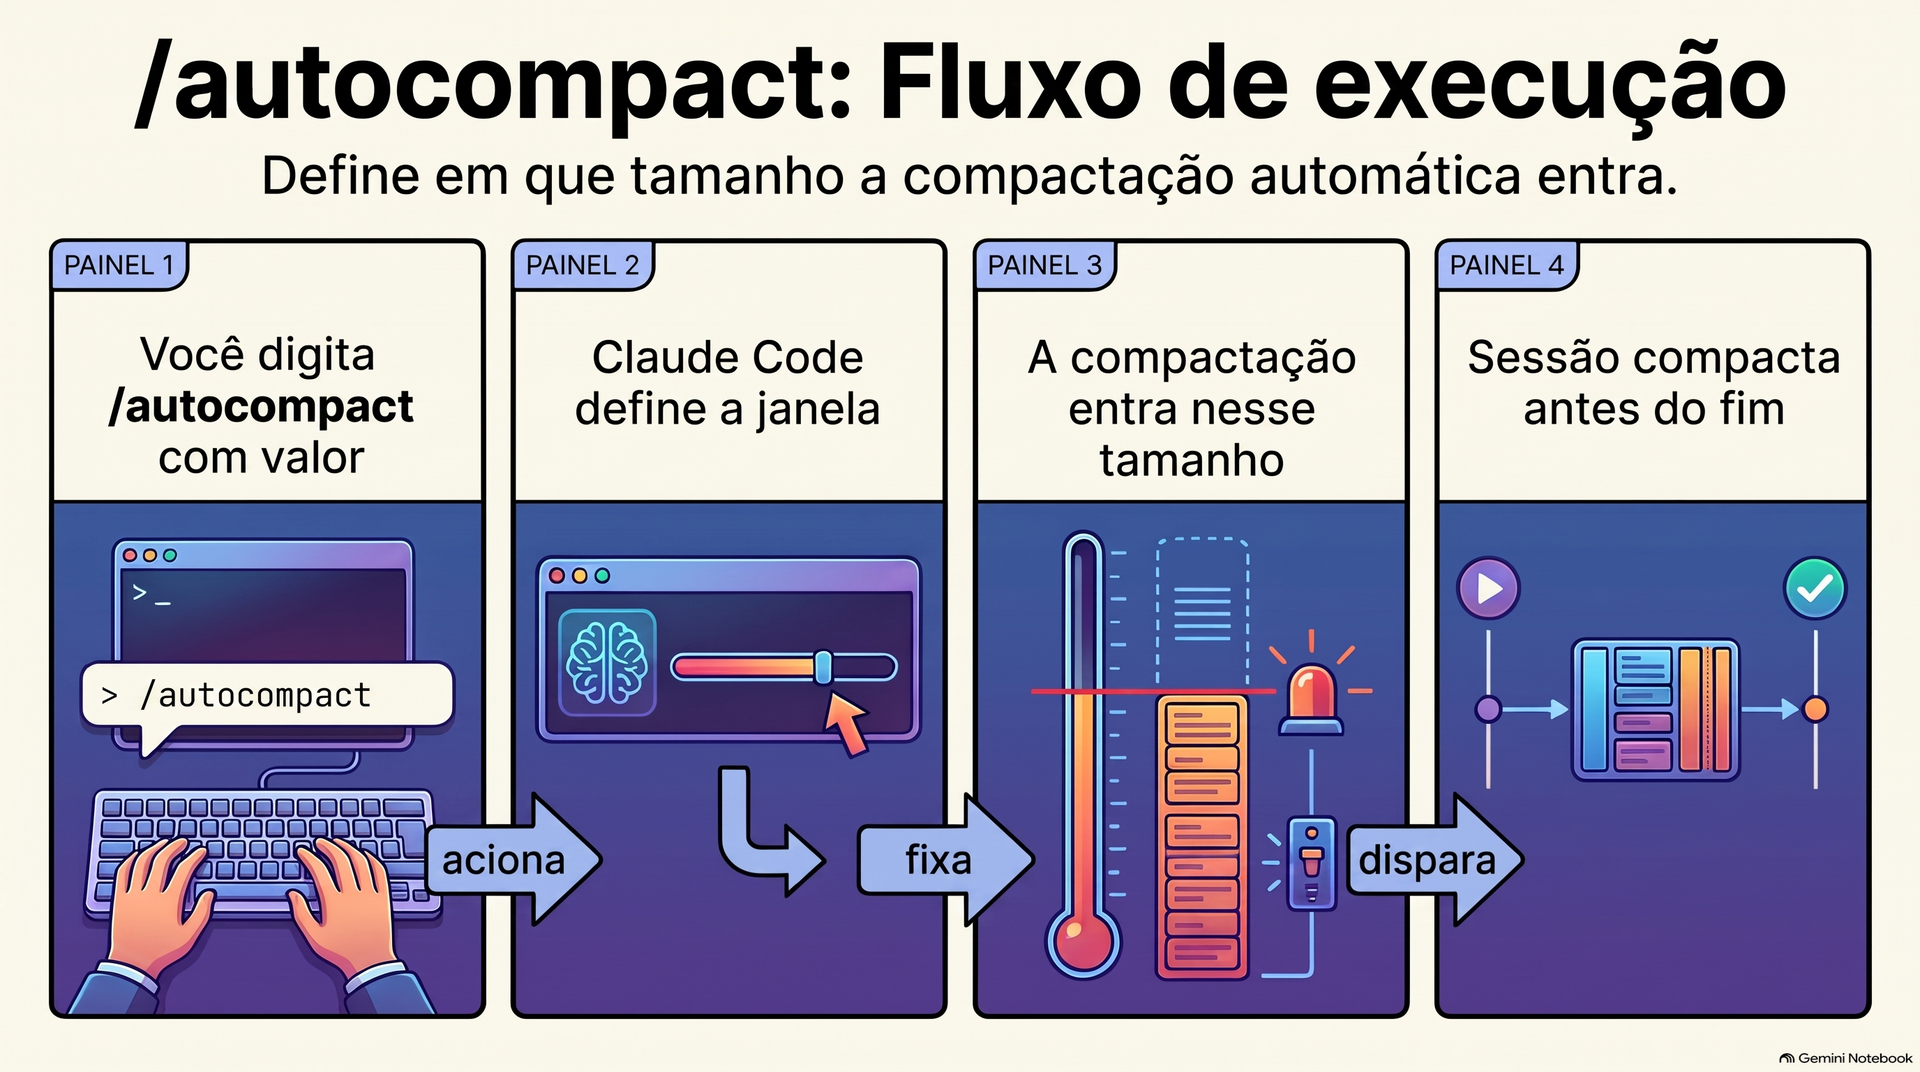
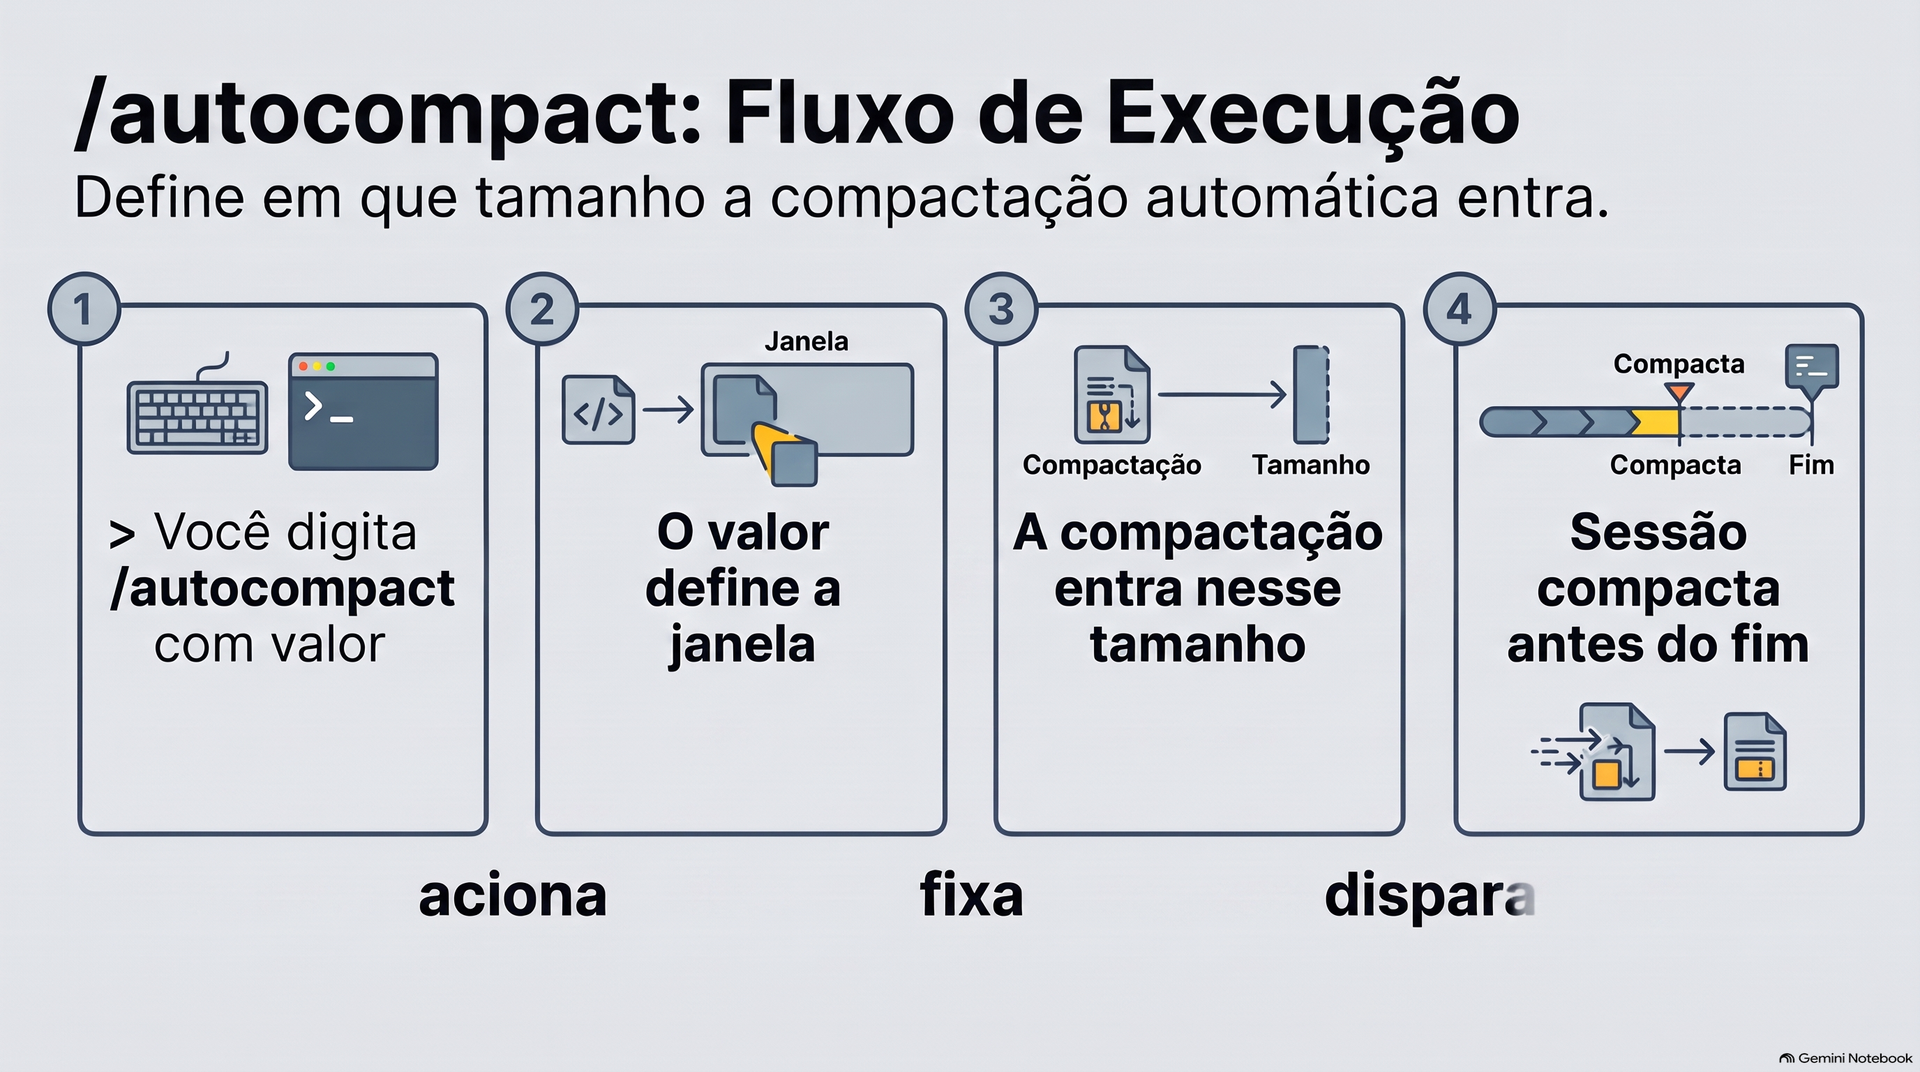
fix(infographics): redo the /autocompact, /code-review and /compact posters
Why: their registered posters came from sources the card fixes in
ded1ba3 replaced: /autocompact said Claude Code picks the window,
/code-review showed the level argument as required, and /compact said
the summary was "fiel".

How: the notes in the notebook were refreshed (bodies edited in place;
/compact got a new "Roteiro /compact (atualizado)" note because its old
roteiro is a read-only pasted source), then each poster was generated
again and went through the transcription audit and preview review.
/code-review attempt 2 drew an invented BAIXO/MÉDIO/ALTO meter and
/compact attempt 2 wrote "/COMPACT" in capitals with an invented
subtitle prefix; both passed on attempt 3 with one more prompt
sentence for that error class.

What: new WebP, 1920 px PNG and qa-report.json for the three slugs;
manifest, page and standalone entries updated in place.

Validation: check-qa and register exit 0 for the three slugs.

diff --git a/comandos-nativos.html b/comandos-nativos.html
@@ -3094,7 +3094,7 @@ const INFOGRAPHICS = {
       "vector": null
     },
     "model_mode": "notebooklm",
-    "updated_at": "2026-11-23T15:34:52Z"
+    "updated_at": "2026-11-23T18:57:15Z"
   },
   "btw": {
     "command": "/btw",
@@ -3127,7 +3127,7 @@ const INFOGRAPHICS = {
       "vector": null
     },
     "model_mode": "notebooklm",
-    "updated_at": "2026-11-23T13:42:48Z"
+    "updated_at": "2026-11-23T19:17:50Z"
   },
   "compact": {
     "command": "/compact",
@@ -3138,7 +3138,7 @@ const INFOGRAPHICS = {
       "vector": null
     },
     "model_mode": "notebooklm",
-    "updated_at": "2026-11-23T11:12:53Z"
+    "updated_at": "2026-11-23T19:23:00Z"
   },
   "context": {
     "command": "/context",

diff --git a/src/comandos-nativos.html b/src/comandos-nativos.html
@@ -3088,7 +3088,7 @@ const INFOGRAPHICS = {
       "vector": null
     },
     "model_mode": "notebooklm",
-    "updated_at": "2026-11-23T15:34:52Z"
+    "updated_at": "2026-11-23T18:57:15Z"
   },
   "btw": {
     "command": "/btw",
@@ -3121,7 +3121,7 @@ const INFOGRAPHICS = {
       "vector": null
     },
     "model_mode": "notebooklm",
-    "updated_at": "2026-11-23T13:42:48Z"
+    "updated_at": "2026-11-23T19:17:50Z"
   },
   "compact": {
     "command": "/compact",
@@ -3132,7 +3132,7 @@ const INFOGRAPHICS = {
       "vector": null
     },
     "model_mode": "notebooklm",
-    "updated_at": "2026-11-23T11:12:53Z"
+    "updated_at": "2026-11-23T19:23:00Z"
   },
   "context": {
     "command": "/context",
